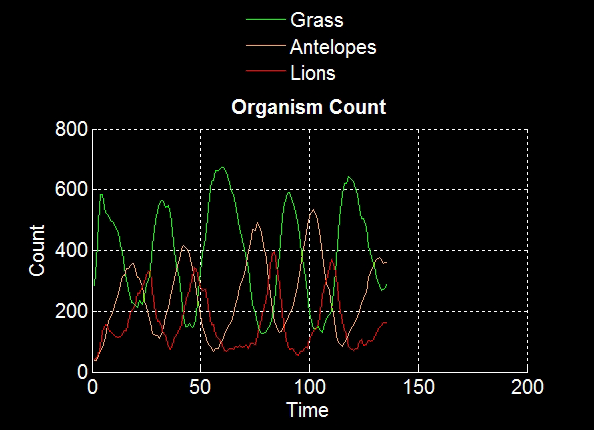
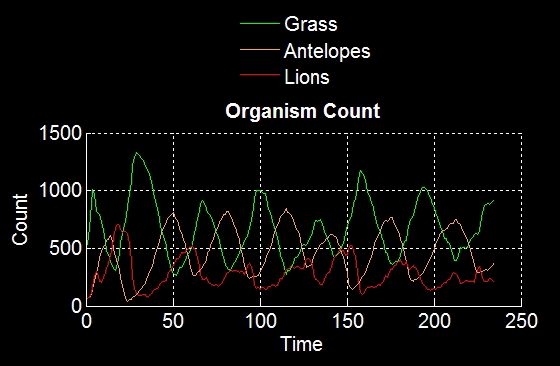
Adjusted

diff --git a/code/typeToOrganism.m b/code/typeToOrganism.m
@@ -18,7 +18,7 @@ repProbInd = 11;    %Probability of Reproduction
 isOffspring = 12    %Can we reproduce?
 %}
 
-switch setupIndex
+switch setupIndex %land 3 & neigh_8ext
     case 1  
         switch type
             case 0      %1    2       3       4dige   5          6       7death                        8       9   10      11rep    12
@@ -26,9 +26,9 @@ switch setupIndex
             case 1
                 ret =   [1,   -1,     0,      0,      inf,      0,      expectedAgeToDeathProb(5),     8,      1,  0,      0.7,      1];
             case 2
-                ret =   [2,   1,      0,      1/2,    6,      6,       expectedAgeToDeathProb(9),     8,      1,  0,      1,      1];
+                ret =   [2,   1,      0,      1/2,    10,      10,       expectedAgeToDeathProb(10),     8,      1,  0,      1,      1];
             case 3
-                ret =   [3,   2,      1,      1/3,    5,       5,      expectedAgeToDeathProb(10),     0,      1,  0,      1,     1];
+                ret =   [3,   2,      1,      1,    10,       10,      expectedAgeToDeathProb(10),     0,      1,  0,      1,     1];
         end
     case 2 %Land 16 & neigh_8ext
         
@@ -40,7 +40,7 @@ switch setupIndex
             case 2
                 ret =   [2,   1,      0,      1/2,    10,      10,       expectedAgeToDeathProb(9),     8,      1,  0,      1,      1];
             case 3
-                ret =   [3,   2,      1,      1/1,    10,       10,      expectedAgeToDeathProb(10),     0,      1,  0,      1,     1];
+                ret =   [3,   2,      1,      1/1,    10,       10,      expectedAgeToDeathProb(5),     0,      1,  0,      1,     1];
         end
     case 3 %Land 18 & neigh_3
         

diff --git a/code/getLand.m b/code/getLand.m
@@ -60,8 +60,8 @@ switch landNumber
         organismMat(6,6,:) = LION;
         organismMat(15,16,:) = LION;
     case 3 %Randomized
-        X = 30;
-        Y = 30;
+        X = 40;
+        Y = 40;
         organismMat = createFlatLand(X,Y,NUM_OF_VARIABLES,setupIndex,0);
         
         %random Grass
@@ -364,7 +364,29 @@ switch landNumber
             x =  randi([1 X]);
             y =  randi([1 Y]);
             organismMat(x,y,:) = ANTELOPE;
-        end         
+        end  
+    case 20 %Chasing pattern forced
+        X = 40;
+        Y = 40;
+        organismMat = createFlatLand(X,Y,NUM_OF_VARIABLES,setupIndex,1);
+        
+        %Antelope
+        for i=20:30
+            for j=25:35
+                organismMat(i,j,:) = ANTELOPE;
+            end;
+        end
+        %Lion
+        for i=20:25
+            for j=25:35
+                organismMat(i,j,:) = LION;
+            end;
+        end
+        for i=20:30
+            for j=36:36
+                organismMat(i,j,:) = LION;
+            end;
+        end
 end
 
 %No one isOffpsring
